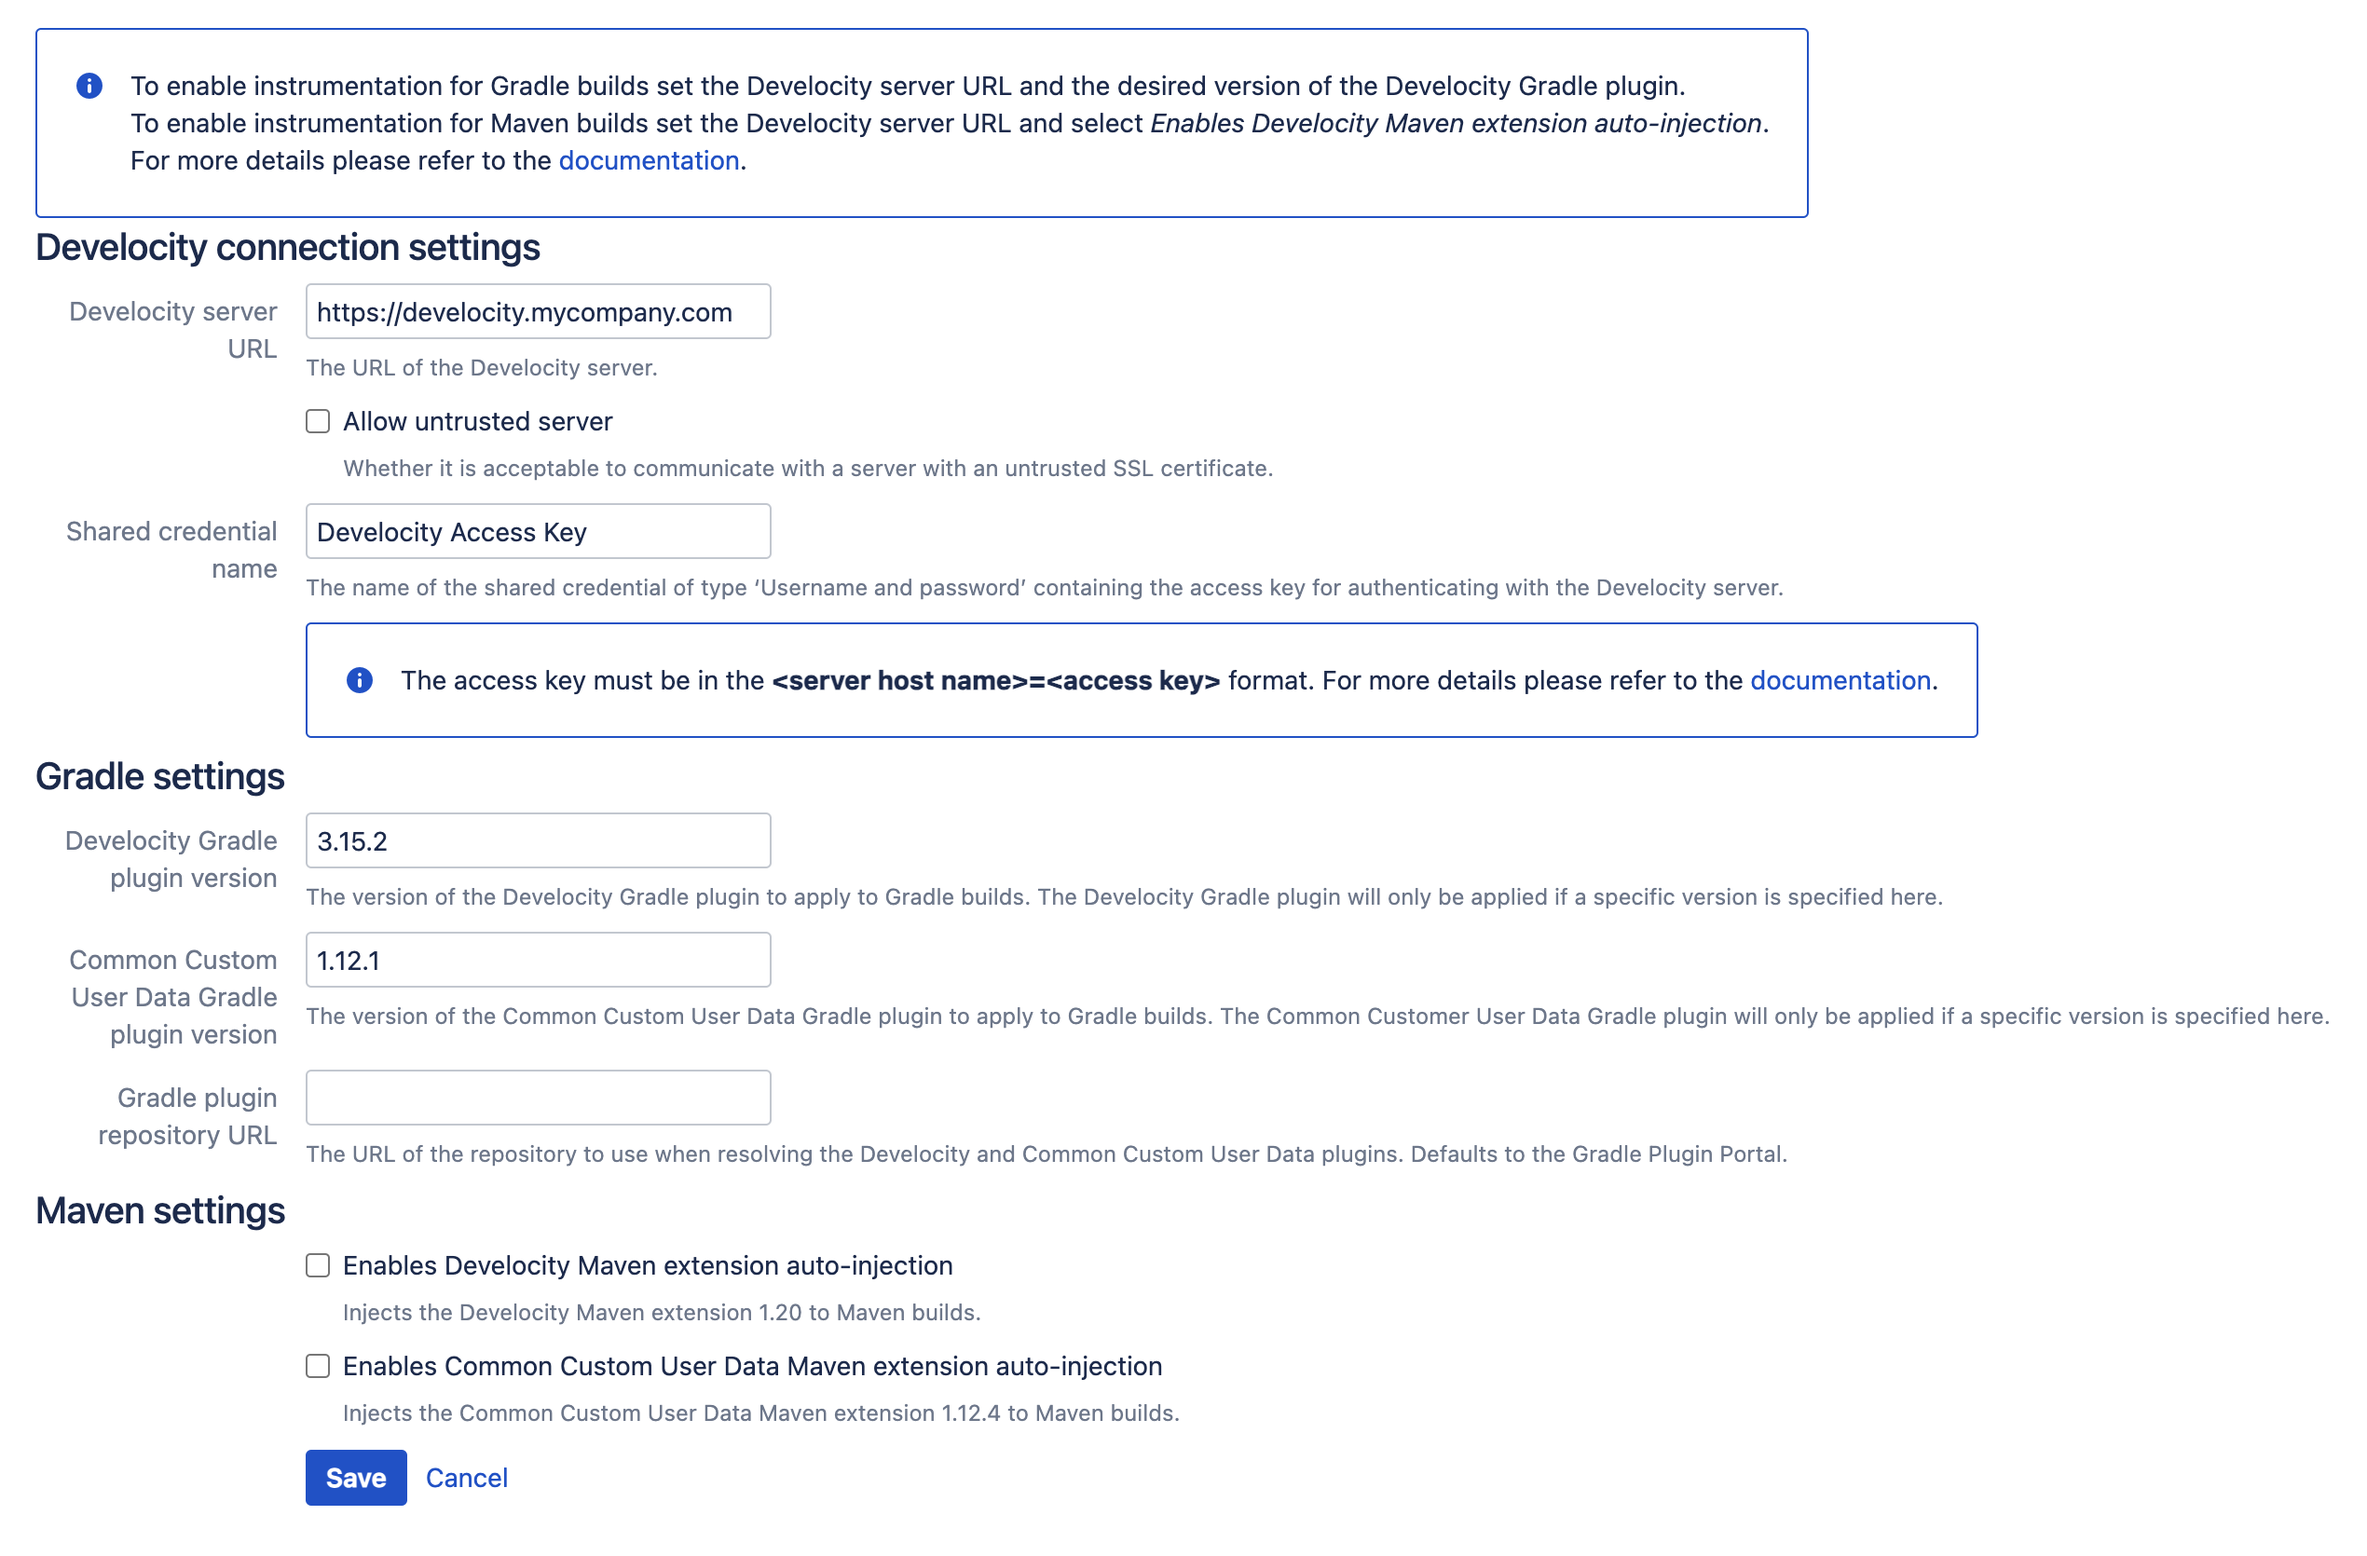
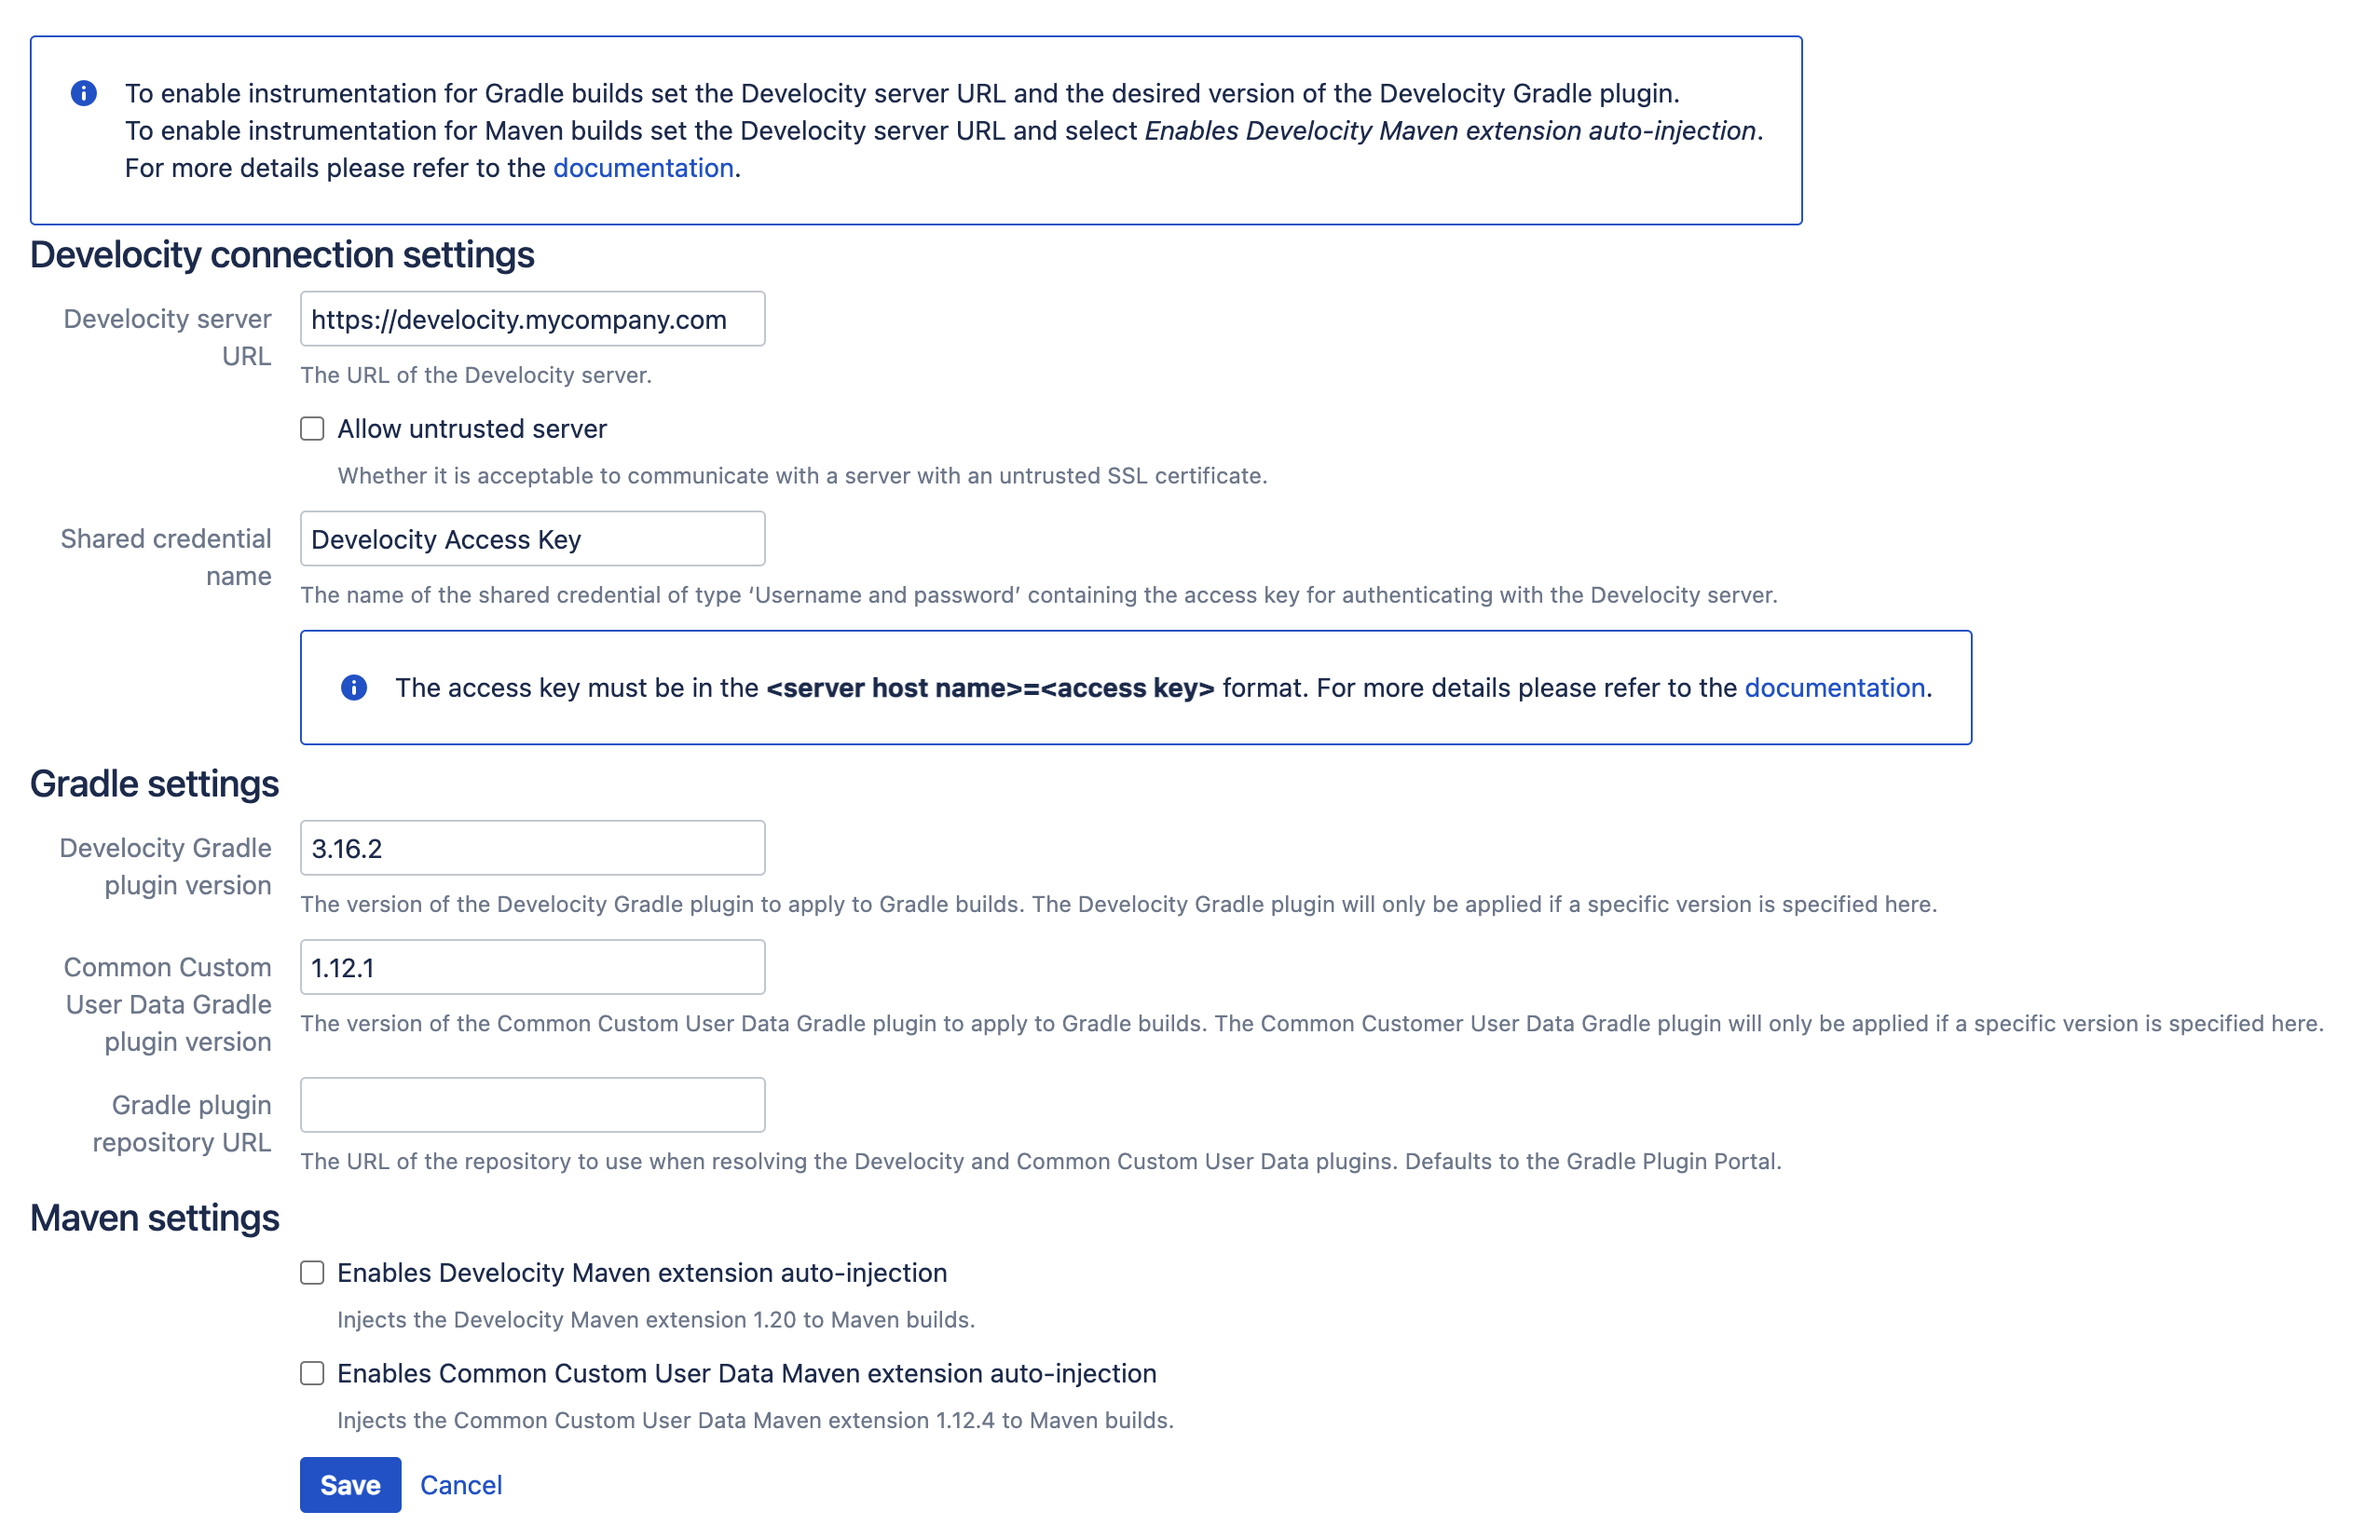
Fix env variable names and gradle plugin version on images

Changed region(s): [[0.0, 0.0309, 0.8404, 0.4939], [0.0, 0.4939, 0.9961, 0.8027], [0.1245, 0.8027, 0.498, 0.9879]]

diff --git a/src/main/java/com/gradle/develocity/bamboo/GradleBuildScanInjector.java b/src/main/java/com/gradle/develocity/bamboo/GradleBuildScanInjector.java
@@ -126,10 +126,10 @@ public class GradleBuildScanInjector extends AbstractBuildScanInjector<GradleCon
     private void prepareEnvironment(BuildContext buildContext, GradleConfiguration config) {
         VariableContext variableContext = buildContext.getVariableContext();
 
-        Objects.runIfNotNull(config.server, s -> variableContext.addLocalVariable("GE_PLUGIN_GRADLE_ENTERPRISE_URL", s));
-        Objects.runIfTrue(config.allowUntrustedServer, () -> variableContext.addLocalVariable("GE_PLUGIN_GRADLE_ENTERPRISE_ALLOW_UNTRUSTED_SERVER", "true"));
-        Objects.runIfNotNull(config.develocityPluginVersion, v -> variableContext.addLocalVariable("GE_PLUGIN_GRADLE_ENTERPRISE_PLUGIN_VERSION", v));
-        Objects.runIfNotNull(config.ccudPluginVersion, v -> variableContext.addLocalVariable("GE_PLUGIN_CCUD_PLUGIN_VERSION", v));
-        Objects.runIfNotNull(config.pluginRepository, r -> variableContext.addLocalVariable("GE_PLUGIN_GRADLE_PLUGIN_REPOSITORY_URL", r));
+        Objects.runIfNotNull(config.server, s -> variableContext.addLocalVariable("DEVELOCITY_PLUGIN_DEVELOCITY_URL", s));
+        Objects.runIfTrue(config.allowUntrustedServer, () -> variableContext.addLocalVariable("DEVELOCITY_PLUGIN_DEVELOCITY_ALLOW_UNTRUSTED_SERVER", "true"));
+        Objects.runIfNotNull(config.develocityPluginVersion, v -> variableContext.addLocalVariable("DEVELOCITY_PLUGIN_DEVELOCITY_PLUGIN_VERSION", v));
+        Objects.runIfNotNull(config.ccudPluginVersion, v -> variableContext.addLocalVariable("DEVELOCITY_PLUGIN_CCUD_PLUGIN_VERSION", v));
+        Objects.runIfNotNull(config.pluginRepository, r -> variableContext.addLocalVariable("DEVELOCITY_PLUGIN_GRADLE_PLUGIN_REPOSITORY_URL", r));
     }
 }
